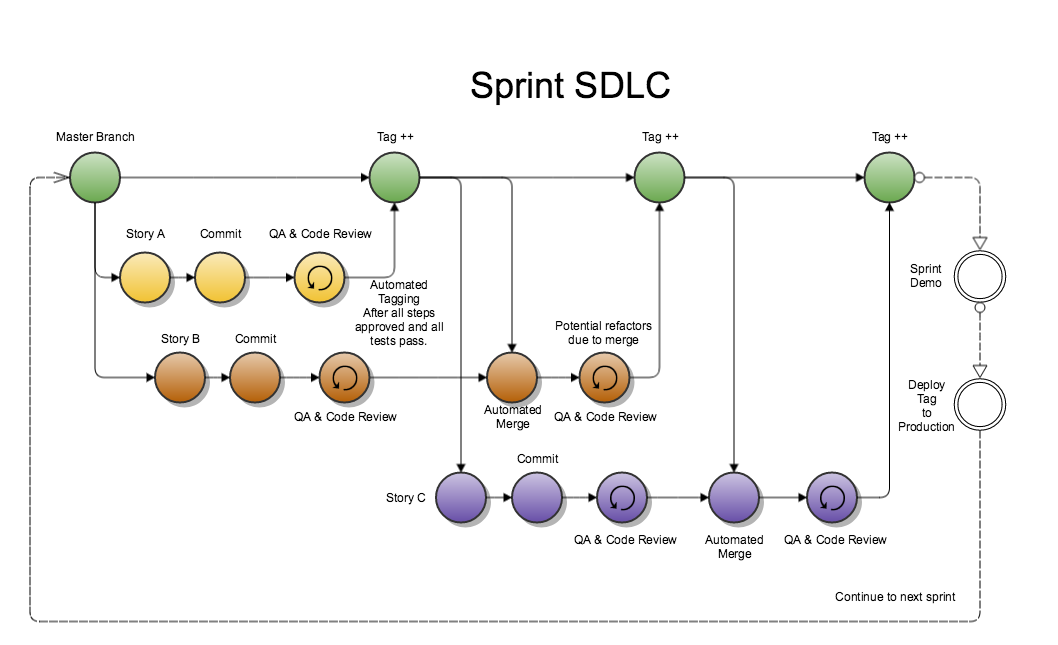
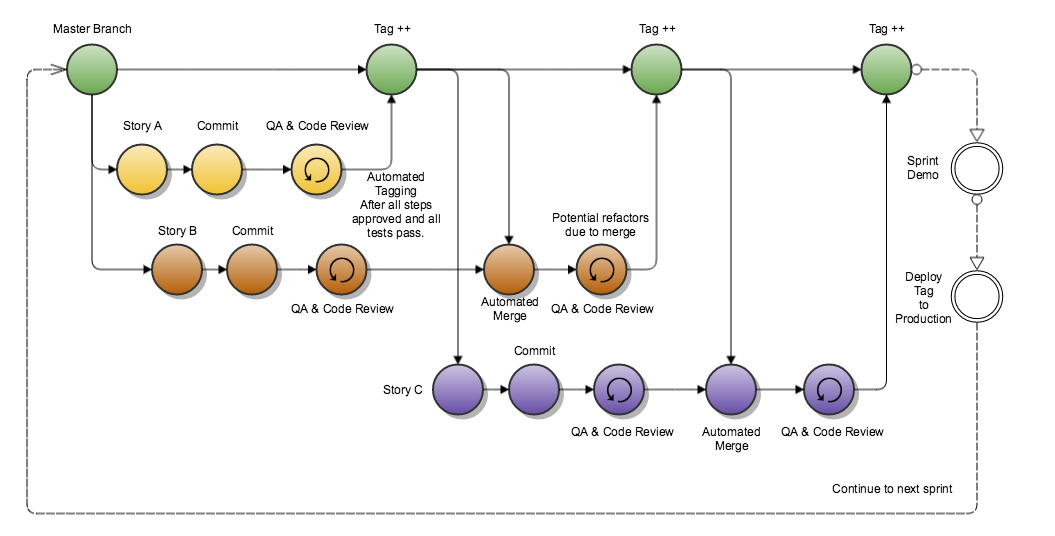
WIP: add feature,fork,centralized,spring sections

diff --git a/index.html b/index.html
@@ -54,19 +54,60 @@
 			</section>
 
 			<section>
-				<h2>ToC</h2>
-				<ul>
-					<li>Git</li>
-					<li>Git terminologies</li>
-					<li>Centralized workflow</li>
-					<li>Forking workflow</li>
-					<li>Feature-branch workflow</li>
-					<li>Spring-branching workflow</li>
-					<li>Gitflow</li>
-					<li>GitHub flow</li>
-					<li>GitLab flow</li>
-					<li>Q&A</li>
-				</ul>
+				<section>
+					<h2>ToC</h2>
+					<ul>
+						<li>Git</li>
+						<li>Git terminologies</li>
+						<li>Centralized workflow</li>
+						<li>Forking workflow</li>
+						<li>Feature-branch workflow</li>
+						<li>Spring-branching workflow</li>
+						<li>Gitflow</li>
+						<li>GitHub flow</li>
+						<li>GitLab flow</li>
+						<li>Q&A</li>
+					</ul>
+				</section>
+				<section id="themes">
+					<h2>Themes</h2>
+					<p>
+						Want to change slide's theme? <br>
+						<!-- Hacks to swap themes after the page has loaded. Not flexible and only intended for the reveal.js demo deck. -->
+						<a href="#"
+							onclick="document.getElementById('theme').setAttribute('href','css/theme/black.css'); return false;">Black
+							(default)</a> -
+						<a href="#"
+							onclick="document.getElementById('theme').setAttribute('href','css/theme/white.css'); return false;">White</a>
+						-
+						<a href="#"
+							onclick="document.getElementById('theme').setAttribute('href','css/theme/league.css'); return false;">League</a>
+						-
+						<a href="#"
+							onclick="document.getElementById('theme').setAttribute('href','css/theme/sky.css'); return false;">Sky</a>
+						-
+						<a href="#"
+							onclick="document.getElementById('theme').setAttribute('href','css/theme/beige.css'); return false;">Beige</a>
+						-
+						<a href="#"
+							onclick="document.getElementById('theme').setAttribute('href','css/theme/simple.css'); return false;">Simple</a>
+						<br>
+						<a href="#"
+							onclick="document.getElementById('theme').setAttribute('href','css/theme/serif.css'); return false;">Serif</a>
+						-
+						<a href="#"
+							onclick="document.getElementById('theme').setAttribute('href','css/theme/blood.css'); return false;">Blood</a>
+						-
+						<a href="#"
+							onclick="document.getElementById('theme').setAttribute('href','css/theme/night.css'); return false;">Night</a>
+						-
+						<a href="#"
+							onclick="document.getElementById('theme').setAttribute('href','css/theme/moon.css'); return false;">Moon</a>
+						-
+						<a href="#"
+							onclick="document.getElementById('theme').setAttribute('href','css/theme/solarized.css'); return false;">Solarized</a>
+					</p>
+				</section>
 			</section>
 			<section>
 				<section>
@@ -124,7 +165,15 @@
 				</section>
 				<section>
 					<h3>Centralized workflow</h3>
-
+					<object type="image/svg+xml" data="images/centralized-workflow01.svg">
+						Your browser does not support SVG
+					</object>
+				</section>
+				<section>
+					<h3>Centralized workflow</h3>
+					<object type="image/svg+xml" data="images/centralized-workflow02.svg">
+						Your browser does not support SVG
+					</object>
 				</section>
 			</section>
 
@@ -134,6 +183,9 @@
 				</section>
 				<section>
 					<h3>Forking workflow</h3>
+					<object type="image/svg+xml" data="images/forking-workflow01.svg">
+						Your browser does not support SVG
+					</object>
 				</section>
 			</section>
 
@@ -143,6 +195,21 @@
 				</section>
 				<section>
 					<h3>Feature-branch workflow</h3>
+					<object type="image/svg+xml" data="images/feature-workflow01.svg">
+						Your browser does not support SVG
+					</object>
+				</section>
+				<section>
+					<h3>Feature-branch workflow</h3>
+					<object type="image/svg+xml" data="images/feature-workflow02.svg">
+						Your browser does not support SVG
+					</object>
+				</section>
+				<section>
+					<h3>Feature-branch workflow</h3>
+					<object type="image/png" data="images/feature-workflow03.png">
+						Your browser does not support PNG
+					</object>
 				</section>
 			</section>
 
@@ -150,8 +217,20 @@
 				<section>
 					<h2>Spring-branching workflow</h2>
 				</section>
+				<!-- <section data-background-image="images/sprint-workflow01.png" data-background-size="contain" data-background-repeat="no-repeat" >
+					<h3>Spring-branching workflow</h3>
+				</section> -->
 				<section>
 					<h3>Spring-branching workflow</h3>
+					<object style="width:100%; height: auto;" type="image/png" data="images/sprint-workflow01.png">
+						Your browser does not support PNG
+					</object>
+				</section>
+				<section>
+					<h3>Spring-branching workflow</h3>
+					<object style="width:100%; height: auto;" type="image/png" data="images/sprint-workflow02.png">
+						Your browser does not support PNG
+					</object>
 				</section>
 			</section>
 
